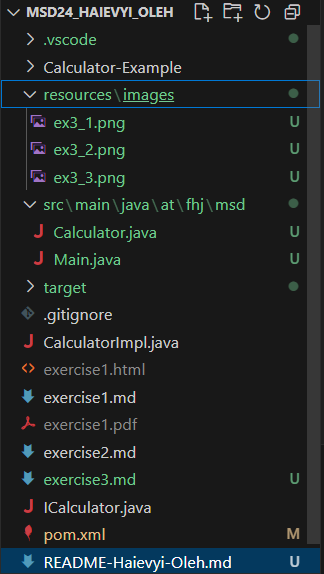
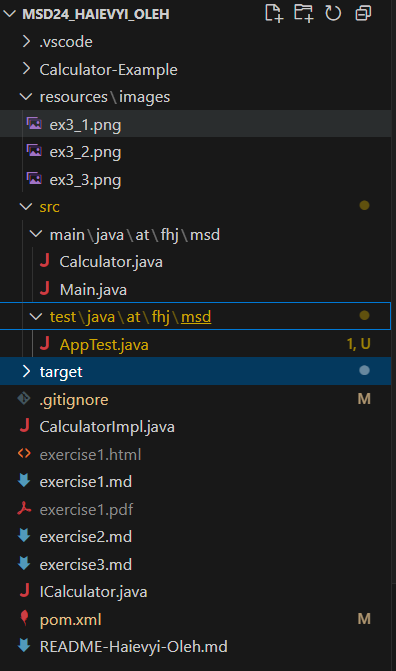
JUnit Tests und .gitignore aktualisiert

Changed region(s): [[0.0, 0.0, 0.9877, 1.0], [0.0, 0.0, 0.5556, 0.0296]]

diff --git a/src/test/java/at/fhj/msd/AppTest.java b/src/test/java/at/fhj/msd/AppTest.java
@@ -1,0 +1,37 @@
+package at.fhj.msd;
+
+import org.junit.jupiter.api.Test;
+import static org.junit.jupiter.api.Assertions.*;
+
+public class AppTest {
+
+    @Test
+    public void testAddition() {
+        Calculator calc = new Calculator();
+        assertEquals(5.0, calc.add(2, 3));
+    }
+
+    @Test
+    public void testSubtraction() {
+        Calculator calc = new Calculator();
+        assertEquals(1.0, calc.minus(3, 2));
+    }
+
+    @Test
+    public void testMultiplication() {
+        Calculator calc = new Calculator();
+        assertEquals(6.0, calc.multiply(2, 3));
+    }
+
+    @Test
+    public void testDivision() {
+        Calculator calc = new Calculator();
+        assertEquals(2.0, calc.divide(6, 3));
+    }
+
+    @Test
+    public void testDivisionByZero() {
+        Calculator calc = new Calculator();
+        assertThrows(ArithmeticException.class, () -> calc.divide(1, 0));
+    }
+}  
